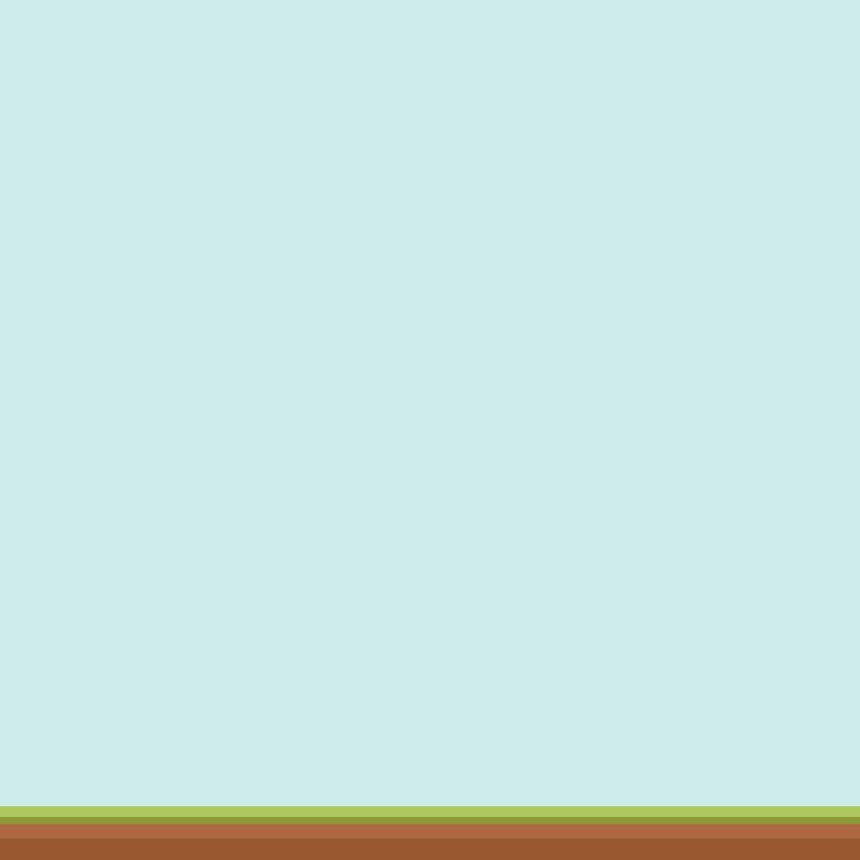
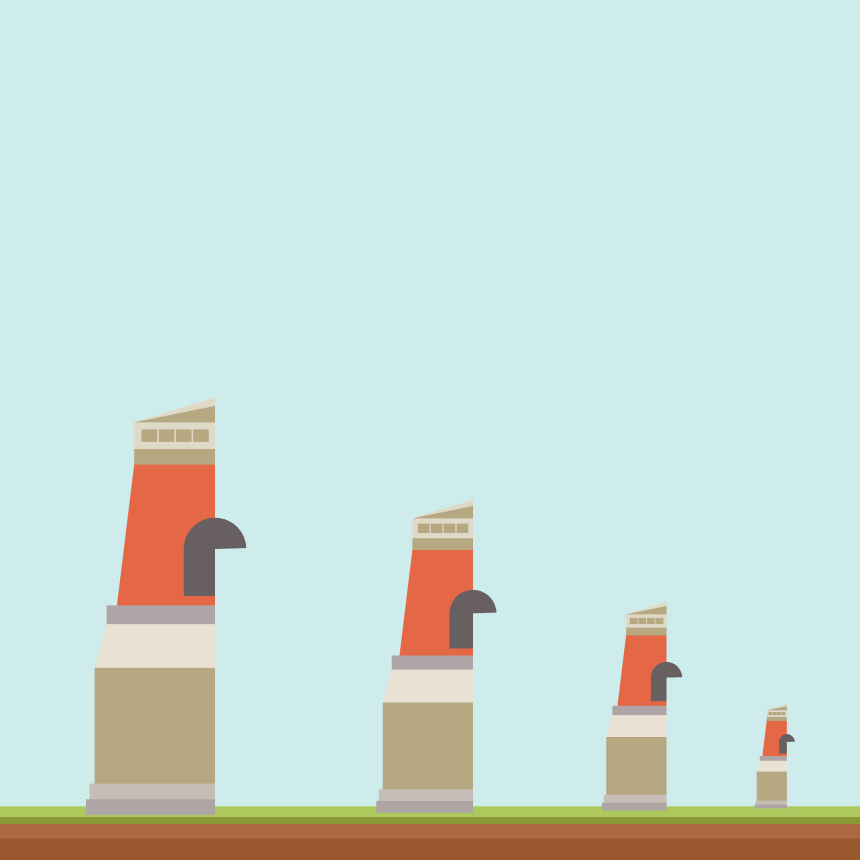
꼼수추가

diff --git a/termproject/project1/model/background.js b/termproject/project1/model/background.js
@@ -13,6 +13,11 @@ window.onload = function init() {
 
 function initView() {
     drawBackground();
+    drawMainTower(0.83, -0.88, 0.2);
+    drawMainTower(0.55, -0.88 - 0.005, 0.4);
+    drawMainTower(0.1, -0.88 - 0.005 * 2, 0.6);
+    drawMainTower(-0.5, -0.88 - 0.005 * 3, 0.8);
+
 };
 
 // 땅을 그리자
@@ -51,4 +56,132 @@ function drawBackground() {
     drawRectangle(gl, mVertices, 8, getColorValue(141, 152, 54, 255));
     drawRectangle(gl, mVertices, 12, getColorValue(174, 105, 68, 255));
     drawRectangle(gl, mVertices, 16, getColorValue(154, 88, 47, 255));
+};
+
+function drawMainTower(x, y, mult, theta = 0) {
+    drawHarfTower(x, y, mult, true, theta);
+};
+
+function drawHarfTower(x, y, mult, isLeft, theta) {
+    var devideValue = 1.0;
+    const center_x = 0;
+    const center_y = 12.4 / 11;
+    var circleValue = 3.9;
+
+    const height = 0.4 / 11;
+    const width = 0.5 / 11;
+    const rat = 0.05 / 11;
+
+    const radius = 0.05;
+
+    var mVertices = [
+        //base
+        vec2(0, 0),
+        vec2(0.75 / 2, 0),
+        vec2(0.75 / 2, 1 / 22),
+        vec2(0, 1 / 22),
+
+        vec2(0.75 / 2 - 0.01, 1 / 22),
+        vec2(0.75 / 2 - 0.01, 1 / 11),
+        vec2(0, 1 / 11),
+
+        vec2(0.75 / 2 - 0.025, 1 / 11),
+        vec2(0.75 / 2 - 0.025, 4.7 / 11),
+        vec2(0, 4.7 / 11),
+
+        vec2(0.75 / 2 - 0.025, 4.7 / 11),
+        vec2(0.75 / 2 - 0.06, 6.1 / 11),
+        vec2(0, 6.1 / 11),
+
+        vec2(0.75 / 2 - 0.06, 6.1 / 11),
+        vec2(0.75 / 2 - 0.06, 6.7 / 11),
+        vec2(0, 6.7 / 11),
+
+        vec2(0.75 / 2 - 0.09, 6.7 / 11),
+        vec2(0.75 / 2 - 0.14, 11.2 / 11),
+        vec2(0, 11.2 / 11),
+
+        vec2(0.75 / 2 - 0.14, 11.2 / 11),
+        vec2(0.75 / 2 - 0.14, 11.7 / 11),
+        vec2(0, 11.7 / 11),
+
+        vec2(0.75 / 2 - 0.14, 11.7 / 11),
+        vec2(0.75 / 2 - 0.14, 12.55 / 11),
+        vec2(0, 12.55 / 11),
+
+        vec2(0, 12.55 / 11),
+        vec2(0.75 / 2 - 0.14, 12.55 / 11),
+        vec2(0, 13.35 / 11),
+
+        vec2(0, 12.55 / 11),
+        vec2(0.75 / 2 - 0.14, 12.55 / 11),
+        vec2(0, 13.08 / 11),
+
+        vec2(center_x + 0.2 / 11, 12.125 / 11 + height / 2),
+        vec2(center_x + 0.2 / 11, 12.125 / 11 - height / 2),
+        vec2(center_x + 0.2 / 11 + width, 12.125 / 11 - height / 2),
+        vec2(center_x + 0.2 / 11 + width, 12.125 / 11 + height / 2),
+
+        vec2(center_x + 0.2 / 11 + rat + width, 12.125 / 11 + height / 2),
+        vec2(center_x + 0.2 / 11 + rat + width, 12.125 / 11 - height / 2),
+        vec2(center_x + 0.2 / 11 + rat + width * 2, 12.125 / 11 - height / 2),
+        vec2(center_x + 0.2 / 11 + rat + width * 2, 12.125 / 11 + height / 2),
+
+        vec2(center_x + 0.2 / 11 + rat * 2 + width * 2, 12.125 / 11 + height / 2),
+        vec2(center_x + 0.2 / 11 + rat * 2 + width * 2, 12.125 / 11 - height / 2),
+        vec2(center_x + 0.2 / 11 + rat * 2 + width * 3, 12.125 / 11 - height / 2),
+        vec2(center_x + 0.2 / 11 + rat * 2 + width * 3, 12.125 / 11 + height / 2),
+
+        vec2(center_x + 0.2 / 11 + rat * 3 + width * 3, 12.125 / 11 + height / 2),
+        vec2(center_x + 0.2 / 11 + rat * 3 + width * 3, 12.125 / 11 - height / 2),
+        vec2(center_x + 0.2 / 11 + rat * 3 + width * 4, 12.125 / 11 - height / 2),
+        vec2(center_x + 0.2 / 11 + rat * 3 + width * 4, 12.125 / 11 + height / 2),
+
+        vec2(0, 7 / 11),
+        vec2(1 / 11, 7 / 11),
+        vec2(1 / 11, 8.58 / 11),
+        vec2(0, 8.5 / 11),
+
+        vec2(center_x, center_y)
+    ];
+
+    // decalcomanie
+    if (isLeft) {
+        // isLeft가 true이면 alpha를 1/devideValue로 한다
+        devideValue = 1.05;
+        circleValue = 2;
+        for (var count = 0; count < mVertices.length; count++) {
+            var value = mVertices[count];
+            mVertices[count] = vec2(-1 * value[0], value[1]);
+        }
+    }
+    // resize
+    for (var count = 0; count < mVertices.length; count++) {
+        var vec2_ = rotated(mVertices[count], theta);
+
+        mVertices[count][0] = vec2_[0] * mult + x;
+        mVertices[count][1] = vec2_[1] * mult + y;
+    }
+
+
+    drawRectangle(gl, mVertices, 0, getColorValue(163, 153, 152, 255 / devideValue));
+    drawRectangle(gl, mVertices, 3, getColorValue(186, 177, 170, 255 / devideValue));
+    drawRectangle(gl, mVertices, 6, getColorValue(170, 156, 117, 255 / devideValue));
+    drawRectangle(gl, mVertices, 9, getColorValue(221, 213, 200, 255 / devideValue));
+    drawRectangle(gl, mVertices, 12, getColorValue(163, 153, 154, 255 / devideValue));
+    drawRectangle(gl, mVertices, 15, getColorValue(216, 92, 58, 255 / devideValue));
+    drawRectangle(gl, mVertices, 18, getColorValue(170, 156, 117, 255 / devideValue));
+    drawRectangle(gl, mVertices, 21, getColorValue(211, 205, 188, 255 / devideValue));
+    drawTriangle(gl, mVertices, 25, getColorValue(211, 205, 188, 255 / devideValue));
+    drawTriangle(gl, mVertices, 28, getColorValue(170, 156, 117, 255 / devideValue));
+    drawRectangle(gl, mVertices, 31, getColorValue(170, 156, 117, 255 / devideValue));
+    drawRectangle(gl, mVertices, 35, getColorValue(170, 156, 117, 255 / devideValue));
+    drawRectangle(gl, mVertices, 39, getColorValue(170, 156, 117, 255 / devideValue));
+    drawRectangle(gl, mVertices, 43, getColorValue(170, 156, 117, 255 / devideValue));
+
+    drawRectangle(gl, mVertices, 47, getColorValue(92, 83, 85, 255 / devideValue));
+
+    drawCircle(gl, mult * (1 / 11), mVertices[50], getColorValue(92, 83, 85, 255 / devideValue), circleValue)
+    // 원 중점 리턴
+    return vec4(mVertices[51][0], mVertices[51][1], mult, radius);
 };

diff --git a/termproject/project1/model/object.js b/termproject/project1/model/object.js
@@ -3,10 +3,10 @@ var canvas
 var gl;
 
 var rot = [
-    vec3(0, 0.015, 1),
-    vec3(0, 0.013, 1),
-    vec3(0, 0.009, 1),
-    vec3(0, 0.011, 1)
+    vec3(0, 0.15, 1),
+    vec3(0, 0.13, 1),
+    vec3(0, 0.09, 1),
+    vec3(0, 0.11, 1)
 ]
 
 var cloudValue = [
@@ -58,7 +58,7 @@ function setValue() {
     });
 
     for (var kk = 0; kk < cloud.length; kk++) {
-        cloudValue.push(vec3(getRandomArbitrary(-1.3, 2.6), getRandomArbitrary(-0.5, 1.5), getRandomArbitrary(0.3, 0.2)))
+        cloudValue.push(vec3(getRandomArbitrary(-1.3, 2.6), getRandomArbitrary(0, 1), getRandomArbitrary(0.3, 0.2)))
     }
 };
 
@@ -94,7 +94,7 @@ function initCloud() {
     cloudValue.forEach(function (value, index, _) {
         if (value[0] + cloud[index] > 1.3) {
             cloudValue[index][0] = -1 * (value[0] + cloud[index]);
-            cloudValue[index][1] = getRandomArbitrary(-0.5, 1.5);
+            cloudValue[index][1] = getRandomArbitrary(0, 1);
         } else {
             cloudValue[index][0] = value[0] + cloud[index];
         }
@@ -103,7 +103,7 @@ function initCloud() {
 };
 
 function initObject() {
-     drawRotateObject(drawMainTower(0.83, -0.88, 0.2), rot[3][0]);
+    drawRotateObject(drawMainTower(0.83, -0.88, 0.2), rot[3][0]);
     drawRotateObject(drawMainTower(0.55, -0.88 - 0.005, 0.4), rot[2][0]);
     drawRotateObject(drawMainTower(0.1, -0.88 - 0.005 * 2, 0.6), rot[1][0]);
     drawRotateObject(drawMainTower(-0.5, -0.88 - 0.005 * 3, 0.8), rot[0][0]);
@@ -166,7 +166,6 @@ function drawCloud(x, y, mult, theta = PI * (0)) {
 
 // x, y는 좌표, mult는 배율, theta는 회전각
 function drawMainTower(x, y, mult, theta = 0) {
-    drawHarfTower(x, y, mult, true, theta);
     return drawHarfTower(x, y, mult, false, theta);
 };
 
@@ -253,16 +252,6 @@ function drawHarfTower(x, y, mult, isLeft, theta) {
         vec2(center_x, center_y)
     ];
 
-    // decalcomanie
-    if (isLeft) {
-        // isLeft가 true이면 alpha를 1/devideValue로 한다
-        devideValue = 1.05;
-        circleValue = 2;
-        for (var count = 0; count < mVertices.length; count++) {
-            var value = mVertices[count];
-            mVertices[count] = vec2(-1 * value[0], value[1]);
-        }
-    }
     // resize
     for (var count = 0; count < mVertices.length; count++) {
         var vec2_ = rotated(mVertices[count], theta);

diff --git a/termproject/project1/main.html b/termproject/project1/main.html
@@ -46,6 +46,7 @@
     <script type="text/javascript" src="Common/initShaders.js"></script>
     <script type="text/javascript" src="Common/MV.js"></script>
     <script type="text/javascript" src="model/object.js"></script>
+
 </head>
 
 <body>
